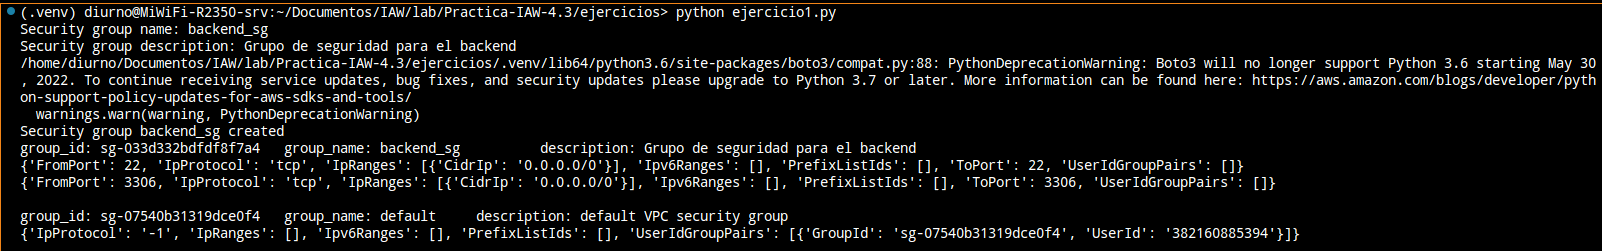
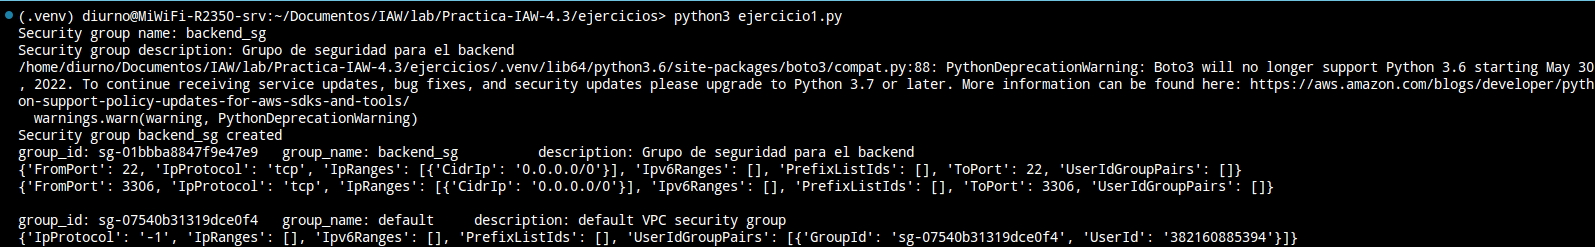
cambios

Changed region(s): [[0.0, 0.0, 1.0, 0.7935], [0.0, 0.8219, 0.8295, 0.9919]]

diff --git a/ejercicios/ejercicio2.py b/ejercicios/ejercicio2.py
@@ -1,0 +1,25 @@
+from common import aws_resource_functions as aws
+
+# ID del AMI
+ami = 'ami-08e637cea2f053dfa'
+
+# Tipo de instancia
+instance_type = 't2.micro'
+
+# Clave privada
+key_name = 'vockey'
+
+# Pedir al usuario por el nombre de la máquina y el grupo para añadirlo a la instancia
+instance_name = input('Instance name: ')
+sg_name = input('Security group: ')
+
+# Comprobar que el grupo de seguridad existe
+if aws.security_group_exists(sg_name) == False:
+    print('The security group does not exist')
+    exit()
+
+# Crear la instancia
+aws.create_instance(ami, 1, instance_type, key_name, instance_name, sg_name)
+
+# Listar las intancias
+aws.list_instances()
